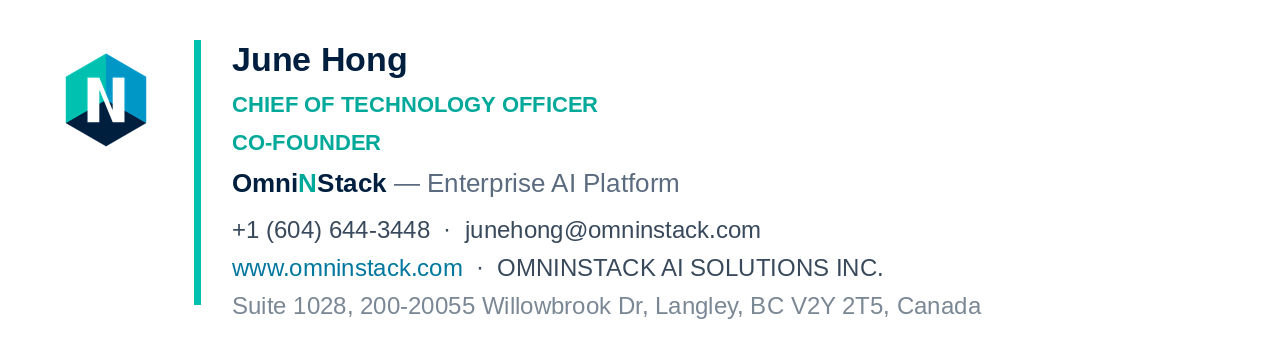
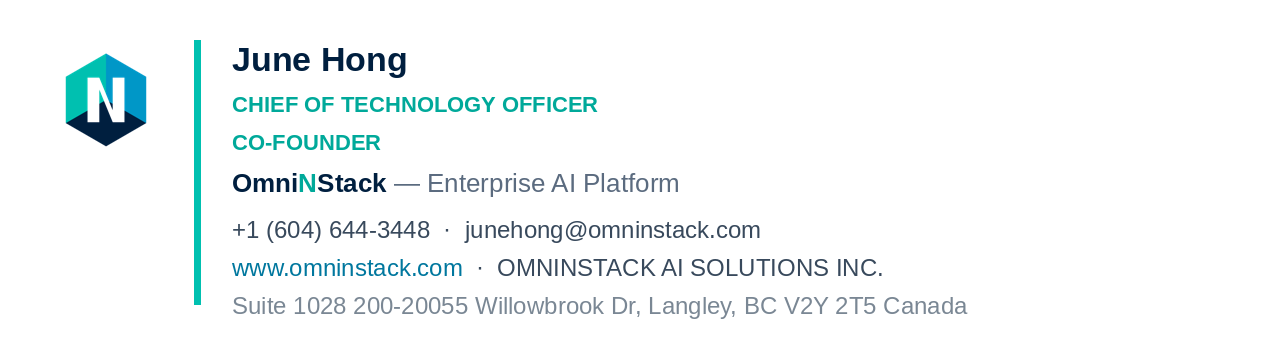
people/june-hong email-signature: fix address format

Changed region(s): [[0.2812, 0.843, 0.7812, 0.9302]]

diff --git a/brand-identity/people/june-hong/email-signature/signature-embedded.html b/brand-identity/people/june-hong/email-signature/signature-embedded.html
@@ -19,7 +19,7 @@
         <a href="mailto:junehong@omninstack.com" style="color:#38495C; text-decoration:none;">junehong@omninstack.com</a><br>
         <a href="https://www.omninstack.com" style="color:#00779E; text-decoration:none;">www.omninstack.com</a>
         &nbsp;·&nbsp; OMNINSTACK AI SOLUTIONS INC.<br>
-        <span style="color:#7A8794;">Suite 1028, 200-20055 Willowbrook Dr, Langley, BC V2Y 2T5, Canada</span>
+        <span style="color:#7A8794;">Suite 1028 200-20055 Willowbrook Dr, Langley, BC V2Y 2T5 Canada</span>
       </div>
     </td>
   </tr>

diff --git a/brand-identity/people/june-hong/email-signature/signature.html b/brand-identity/people/june-hong/email-signature/signature.html
@@ -19,7 +19,7 @@
         <a href="mailto:junehong@omninstack.com" style="color:#38495C; text-decoration:none;">junehong@omninstack.com</a><br>
         <a href="https://www.omninstack.com" style="color:#00779E; text-decoration:none;">www.omninstack.com</a>
         &nbsp;·&nbsp; OMNINSTACK AI SOLUTIONS INC.<br>
-        <span style="color:#7A8794;">Suite 1028, 200-20055 Willowbrook Dr, Langley, BC V2Y 2T5, Canada</span>
+        <span style="color:#7A8794;">Suite 1028 200-20055 Willowbrook Dr, Langley, BC V2Y 2T5 Canada</span>
       </div>
     </td>
   </tr>
